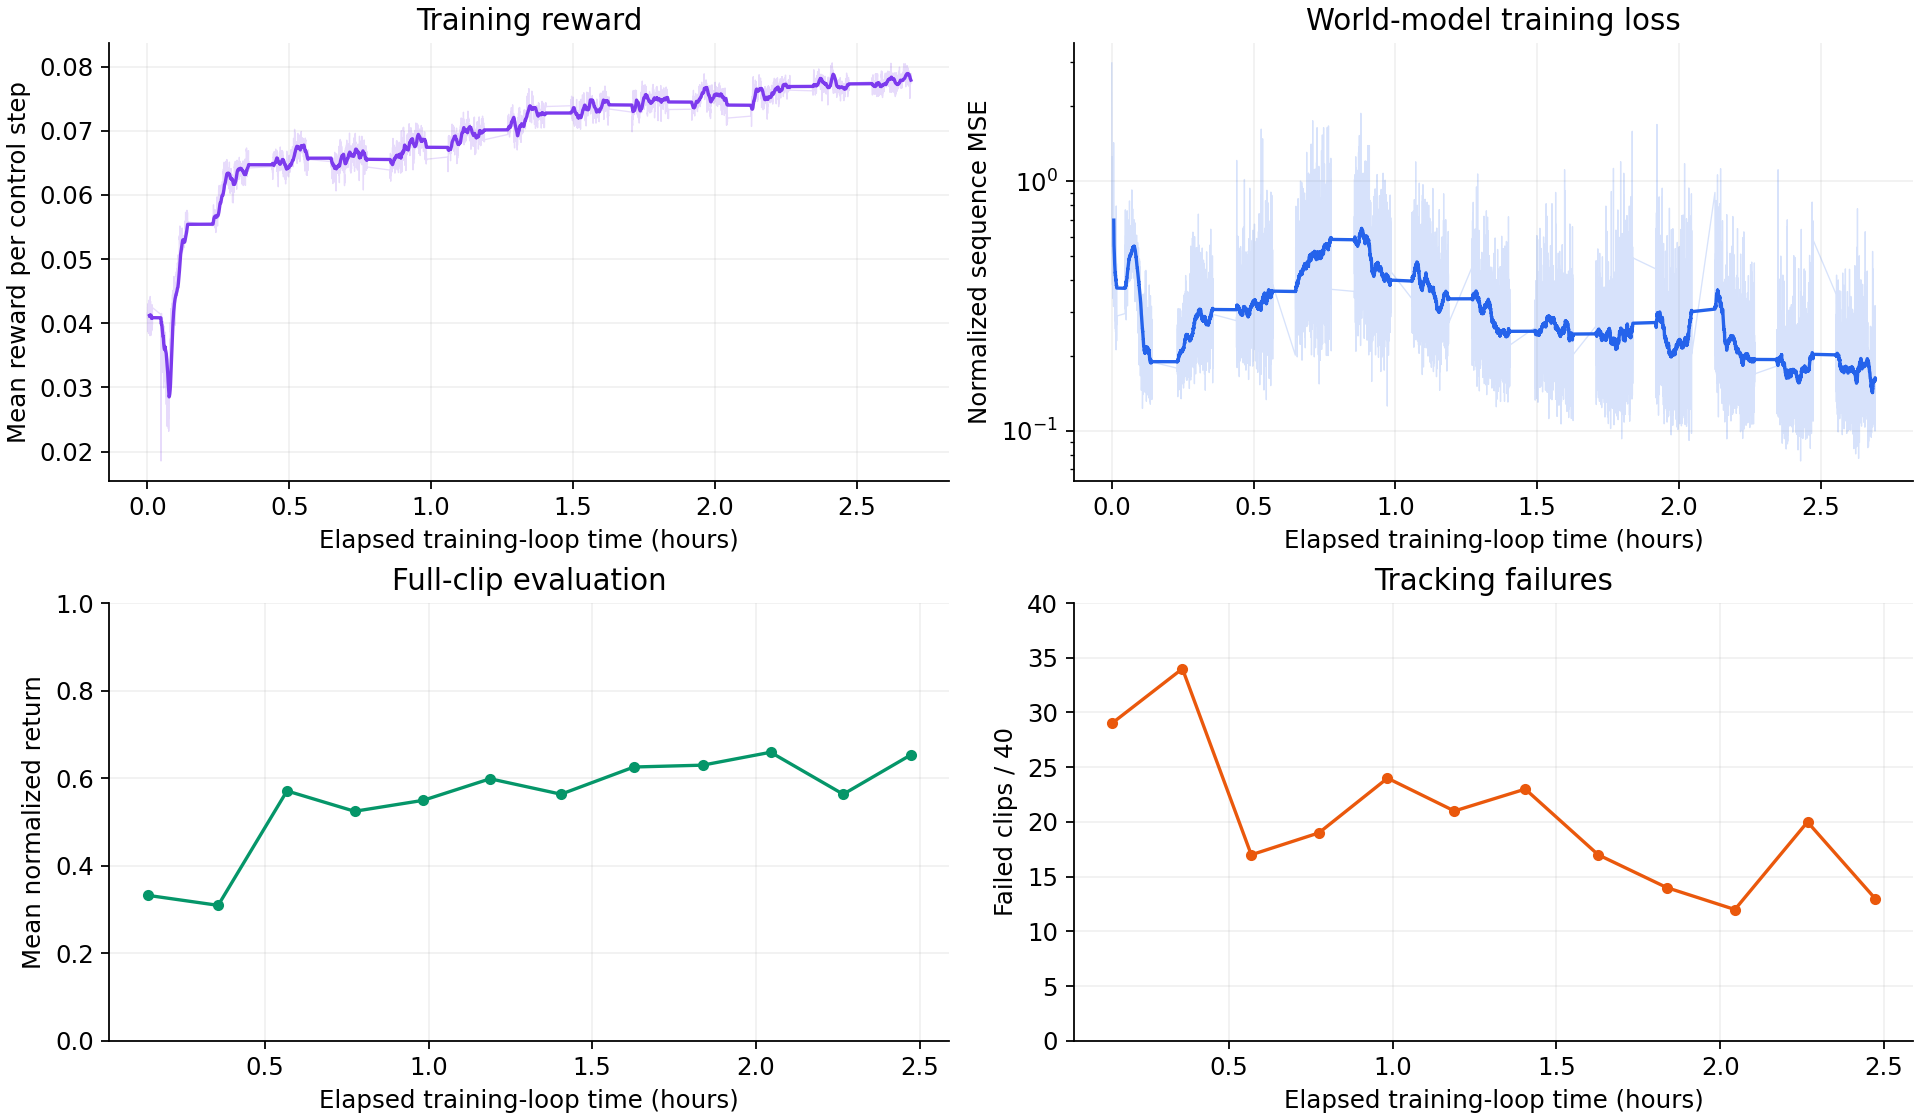
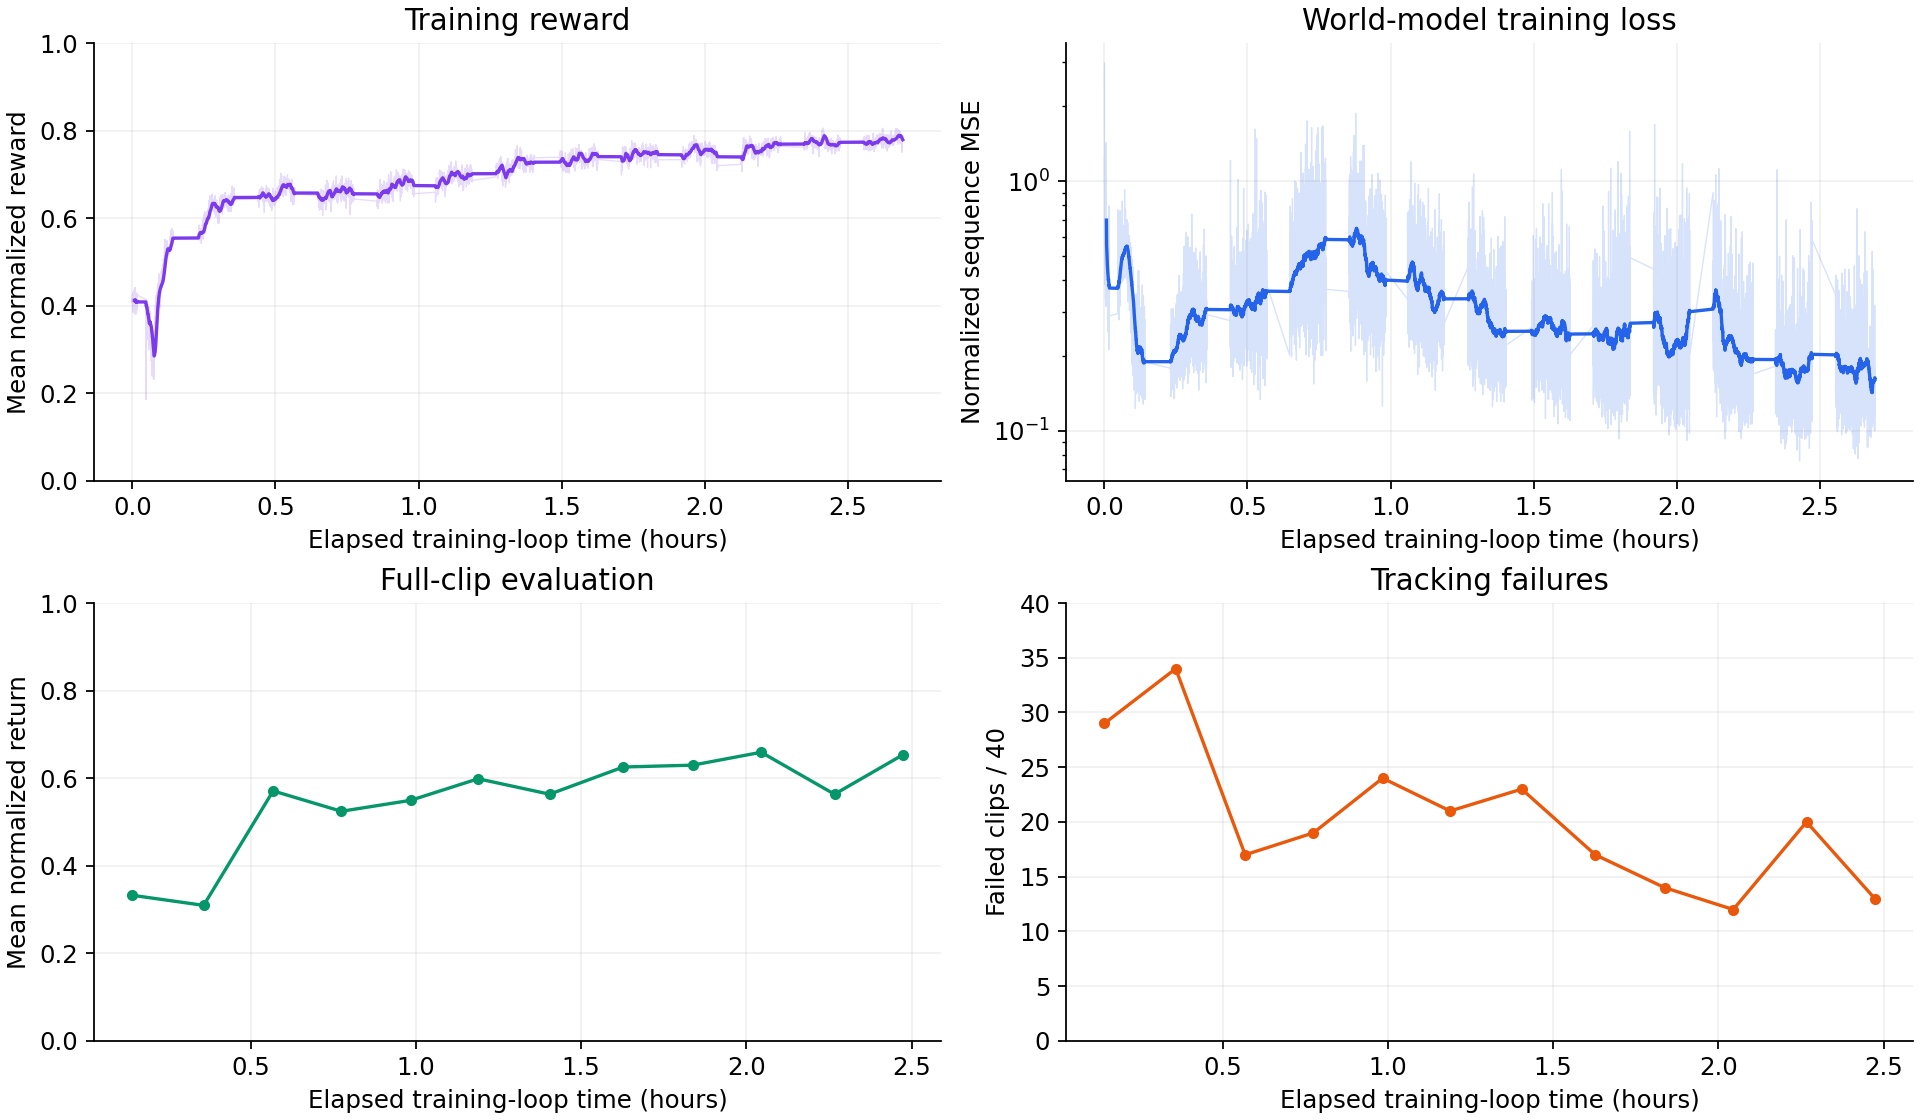
Normalize plotted training reward to match evaluation scale

diff --git a/README.md b/README.md
@@ -35,7 +35,7 @@ Simulation on the left; learned dynamics on the right. Both receive the same pol
 
 ## Training curves
 
-Logged results from `g1_local_frame` against wall-clock time on the RTX 3090. Training reward is the mean collected reward per control step. Reward and world-model loss show raw values and a 100-iteration moving average. Evaluation covers all 40 training motion clips, so these curves measure training-motion tracking rather than held-out generalization.
+Logged results from `g1_local_frame` against wall-clock time on the RTX 3090. Training reward is the mean collected reward per control step divided by `5 × dt = 0.1`, using the same reward normalization as evaluation. Reward and world-model loss show unsmoothed values and a 100-iteration moving average. Evaluation covers all 40 training motion clips, so these curves measure training-motion tracking rather than held-out generalization.
 
 ![Training reward, world-model loss, normalized evaluation return, and tracking failures versus elapsed hours](docs/assets/training_curves_wall_clock.png)
 
